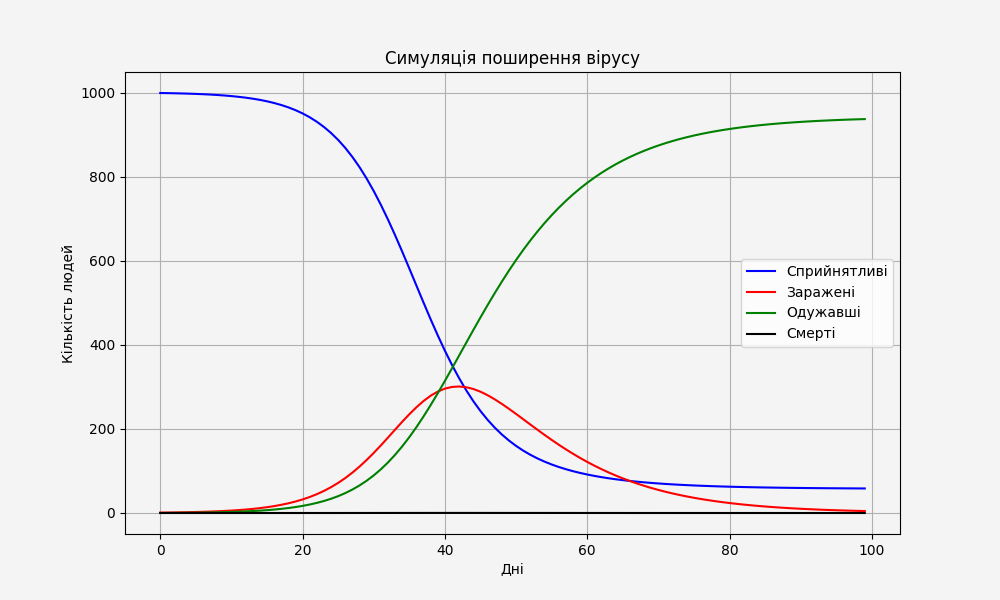
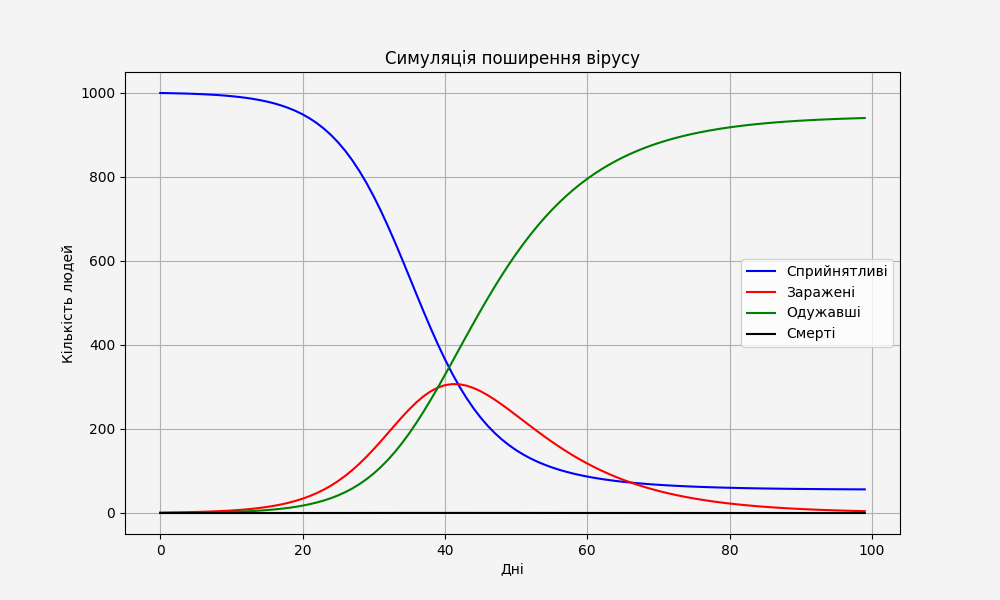
Some update about  vaccination and quarantine

diff --git a/src/ui.py b/src/ui.py
@@ -144,7 +144,7 @@ class SimulationApp:
     
         # Зміна розміру вікна на 400x750
         self.root.geometry("400x750")
-        self.center_window(self.root, 400, 750)
+        self.center_window(self.root, 400, 900)
     
         # Створюємо контейнер для сітки
         settings_frame = tk.Frame(self.root, bg="#f4f4f4")
@@ -222,11 +222,29 @@ class SimulationApp:
         self.quarantine_percent_entry = self.create_entry(settings_frame, "0")
         self.quarantine_percent_entry.grid(row=16, column=1, padx=10, pady=5)
 
+        # Додаємо поля для зниження інфікування та смертності через вакцинацію та карантин
+        self.create_label(settings_frame, "Зниження інфікування вакцинацією (%):")
+        self.vaccine_infection_reduction_entry = self.create_entry(settings_frame, "60")
+        self.vaccine_infection_reduction_entry.grid(row=17, column=1, padx=10, pady=5)
+
+        self.create_label(settings_frame, "Зниження смертності вакцинацією (%):")
+        self.vaccine_mortality_reduction_entry = self.create_entry(settings_frame, "50")
+        self.vaccine_mortality_reduction_entry.grid(row=18, column=1, padx=10, pady=5)
+
+        self.create_label(settings_frame, "Зниження інфікування карантином (%):")
+        self.quarantine_infection_reduction_entry = self.create_entry(settings_frame, "70")
+        self.quarantine_infection_reduction_entry.grid(row=19, column=1, padx=10, pady=5)
+
+        self.create_label(settings_frame, "Зниження смертності карантином (%):")
+        self.quarantine_mortality_reduction_entry = self.create_entry(settings_frame, "30")
+        self.quarantine_mortality_reduction_entry.grid(row=20, column=1, padx=10, pady=5)
+
+
 
         # Використовуємо grid для кнопок
-        self.create_button(self.root, "Запустити симуляцію", self.run_simulation).grid(row=17, column=0, padx=10, pady=5, sticky="nsew")
-        self.create_button(self.root, "Переглянути результати", self.show_results).grid(row=18, column=0, padx=10, pady=5, sticky="nsew")
-        self.create_button(self.root, "Назад", self.show_main_menu).grid(row=19, column=0, padx=10, pady=5, sticky="nsew")
+        self.create_button(self.root, "Запустити симуляцію", self.run_simulation).grid(row=21, column=0, padx=10, pady=5, sticky="nsew")
+        self.create_button(self.root, "Переглянути результати", self.show_results).grid(row=22, column=0, padx=10, pady=5, sticky="nsew")
+        self.create_button(self.root, "Назад", self.show_main_menu).grid(row=23, column=0, padx=10, pady=5, sticky="nsew")
     
         # Налаштовуємо сітку для контейнера
         settings_frame.grid_rowconfigure(0, weight=1)
@@ -246,6 +264,10 @@ class SimulationApp:
         settings_frame.grid_rowconfigure(14, weight=1)
         settings_frame.grid_rowconfigure(15, weight=1)
         settings_frame.grid_rowconfigure(16, weight=1)
+        settings_frame.grid_rowconfigure(17, weight=1)
+        settings_frame.grid_rowconfigure(18, weight=1)
+        settings_frame.grid_rowconfigure(19, weight=1)
+        settings_frame.grid_rowconfigure(20, weight=1)
 
         # Для стовпців теж можна налаштувати
         settings_frame.grid_columnconfigure(0, weight=1)
@@ -278,7 +300,13 @@ class SimulationApp:
         vaccination_value = float(self.vaccine_percent_entry.get()) / 100
         quarantine_value = float(self.quarantine_percent_entry.get()) / 100
     
-        # Передаємо значення до parallel_simulation
+        # Отримуємо зниження інфікування та смертності через вакцинацію та карантин
+        vaccine_infection_reduction = float(self.vaccine_infection_reduction_entry.get()) / 100
+        vaccine_mortality_reduction = float(self.vaccine_mortality_reduction_entry.get()) / 100
+        quarantine_infection_reduction = float(self.quarantine_infection_reduction_entry.get()) / 100
+        quarantine_mortality_reduction = float(self.quarantine_mortality_reduction_entry.get()) / 100
+    
+        # Передаємо ці значення в parallel_simulation
         self.susceptible, self.infected, self.recovered, self.deaths, self.total_mortality, \
         self.children_mortality, self.young_adults_mortality, self.middle_age_mortality, self.senior_mortality, \
         self.vaccination_impact, self.vaccination_mortality_impact, self.quarantine_impact, self.quarantine_mortality_impact = parallel_simulation(
@@ -296,6 +324,10 @@ class SimulationApp:
             death_rate_senior=death_rate_senior,
             vaccination=vaccination_value,
             quarantine=quarantine_value,
+            vaccine_infection_reduction=vaccine_infection_reduction,
+            vaccine_mortality_reduction=vaccine_mortality_reduction,
+            quarantine_infection_reduction=quarantine_infection_reduction,
+            quarantine_mortality_reduction=quarantine_mortality_reduction,
             num_processes=4
         )
     
@@ -309,7 +341,6 @@ class SimulationApp:
         self.results_saved = False
         messagebox.showinfo("Готово", "Симуляція завершена. Перегляньте результати.")
     
-
     def show_results(self):
         if not os.path.exists(TEMP_GRAPH_PATH):
             messagebox.showerror("Помилка", "Немає збережених результатів!")
@@ -335,9 +366,8 @@ class SimulationApp:
         vaccination_value = float(self.vaccine_percent_entry.get()) 
         quarantine_value = float(self.quarantine_percent_entry.get())
 
-        # Передаємо його в паралельну симуляцію
         results = parallel_simulation(
-            population_obj,  # Передаємо об'єкт популяції
+            population_obj,
             beta=float(self.beta_entry.get()),
             gamma=float(self.gamma_entry.get()),
             days=int(self.days_entry.get()),
@@ -349,9 +379,13 @@ class SimulationApp:
             death_rate_young_adults=float(self.death_rate_young_adults_entry.get()),
             death_rate_middle_age=float(self.death_rate_middle_age_entry.get()),
             death_rate_senior=float(self.death_rate_senior_entry.get()),
-            vaccination=float(self.vaccine_percent_entry.get()),  # Вакцинація
-            quarantine=float(self.quarantine_percent_entry.get()),  # Карантин
-            num_processes=4  # Кількість процесів
+            vaccination=float(self.vaccine_percent_entry.get()),
+            quarantine=float(self.quarantine_percent_entry.get()), 
+            vaccine_infection_reduction=self.vaccination_impact,
+            vaccine_mortality_reduction=self.vaccination_mortality_impact,
+            quarantine_infection_reduction=self.quarantine_impact,
+            quarantine_mortality_reduction=self.quarantine_mortality_impact,
+            num_processes=4
         )
 
         # Отримуємо всі значення з результатів

diff --git a/src/simulation.py b/src/simulation.py
@@ -1,11 +1,12 @@
+#simulatiom.py
 from mpi4py import MPI
 from model import run_sir_model, Population
 import numpy as np
 
-def parallel_simulation(population_obj, beta, gamma, days,
-                        children_percent, young_adults_percent, middle_age_percent, senior_percent,
-                        death_rate_children, death_rate_young_adults, death_rate_middle_age, death_rate_senior,
-                        vaccination, quarantine, num_processes):
+def parallel_simulation(population_obj, beta, gamma, days, children_percent, young_adults_percent, middle_age_percent, senior_percent, 
+                         death_rate_children, death_rate_young_adults, death_rate_middle_age, death_rate_senior, 
+                         vaccination, quarantine, vaccine_infection_reduction, vaccine_mortality_reduction, 
+                         quarantine_infection_reduction, quarantine_mortality_reduction, num_processes):
 
     comm = MPI.COMM_WORLD
     rank = comm.Get_rank()
@@ -26,13 +27,11 @@ def parallel_simulation(population_obj, beta, gamma, days,
         # Знижуємо загальну ймовірність зараження на основі карантину
         beta *= (1 - quarantine)  # Знижуємо ймовірність зараження в залежності від карантину
     
-    # Вплив вакцинації на інфекцію та смертність
-    vaccination_impact = 100 * (0.6 * vaccination)  # Вплив вакцинації на зниження інфікування
-    vaccination_mortality_impact = 100 * (0.5 * vaccination)  # Вплив вакцинації на зниження смертності (50% зниження для 100% вакцинації)
-    
-    # Вплив карантину на інфекцію та смертність
-    quarantine_impact = 100 * (0.7 * quarantine)  # Вплив карантину на зниження інфікування
-    quarantine_mortality_impact = 100 * (0.3 * quarantine)  # Вплив карантину на зниження смертності (30% зниження для 100% карантину)
+    vaccination_impact = 100 * (vaccine_infection_reduction * vaccination)
+    vaccination_mortality_impact = 100 * (vaccine_mortality_reduction * vaccination)
+
+    quarantine_impact = 100 * (quarantine_infection_reduction * quarantine)
+    quarantine_mortality_impact = 100 * (quarantine_mortality_reduction * quarantine)
 
     susceptible, infected, recovered, deaths = run_sir_model(
         population, beta, gamma, days,
@@ -74,4 +73,3 @@ def parallel_simulation(population_obj, beta, gamma, days,
         return final_susceptible, final_infected, final_recovered, final_deaths, total_mortality, \
                children_mortality, young_adults_mortality, middle_age_mortality, senior_mortality, \
                vaccination_impact, vaccination_mortality_impact, quarantine_impact, quarantine_mortality_impact
-    
